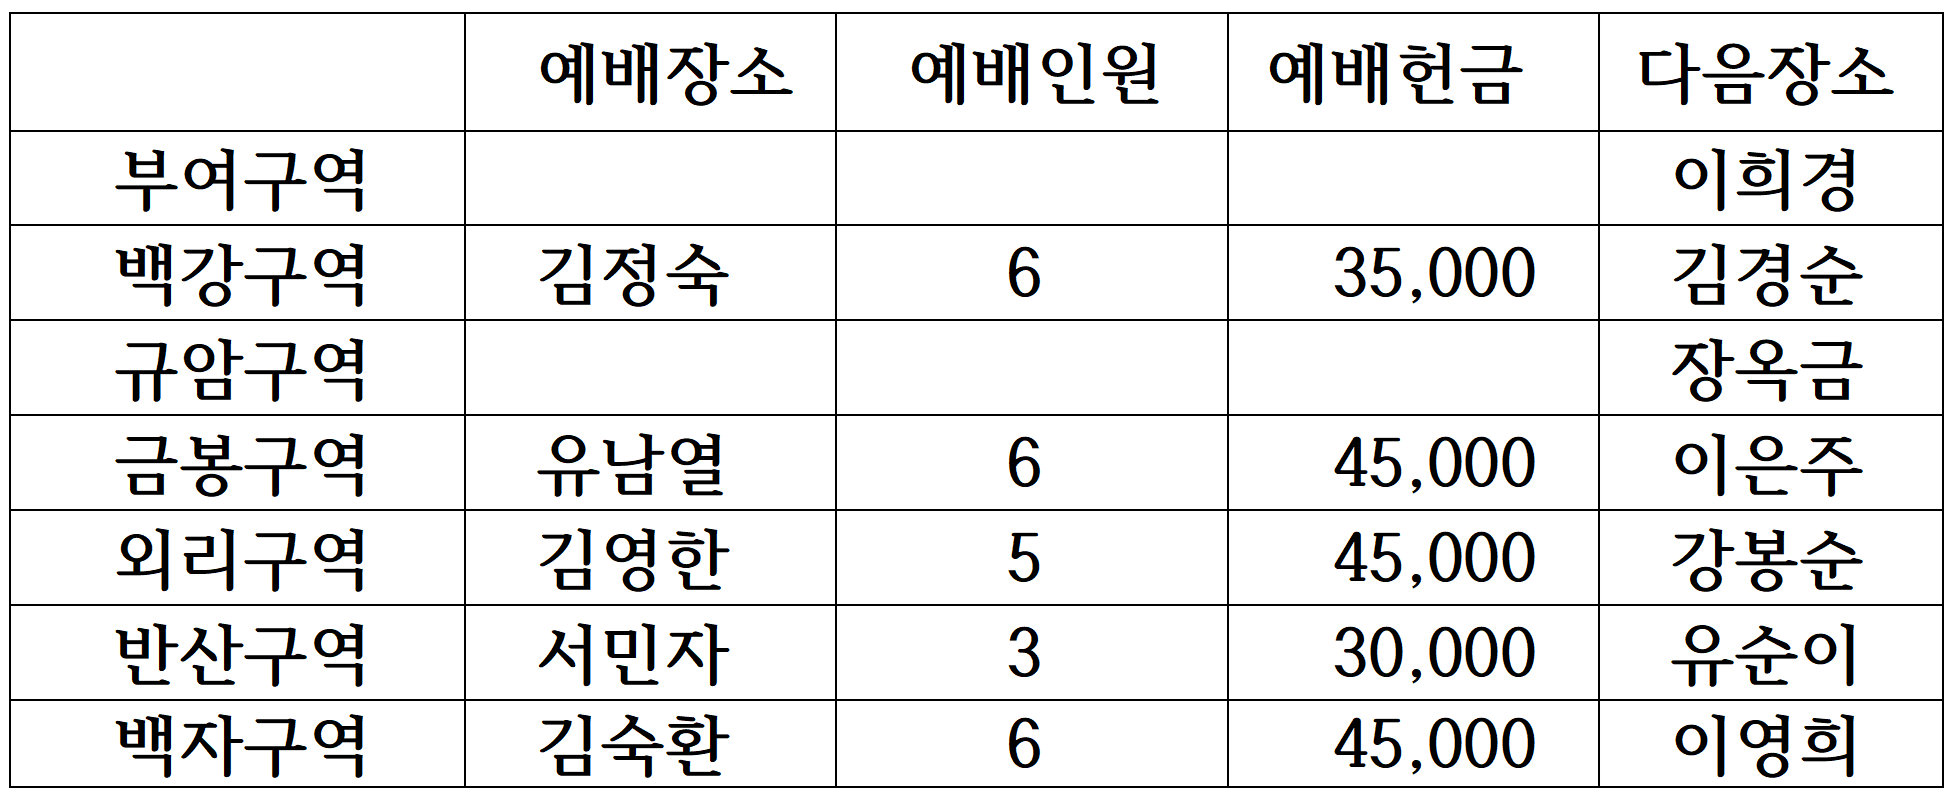
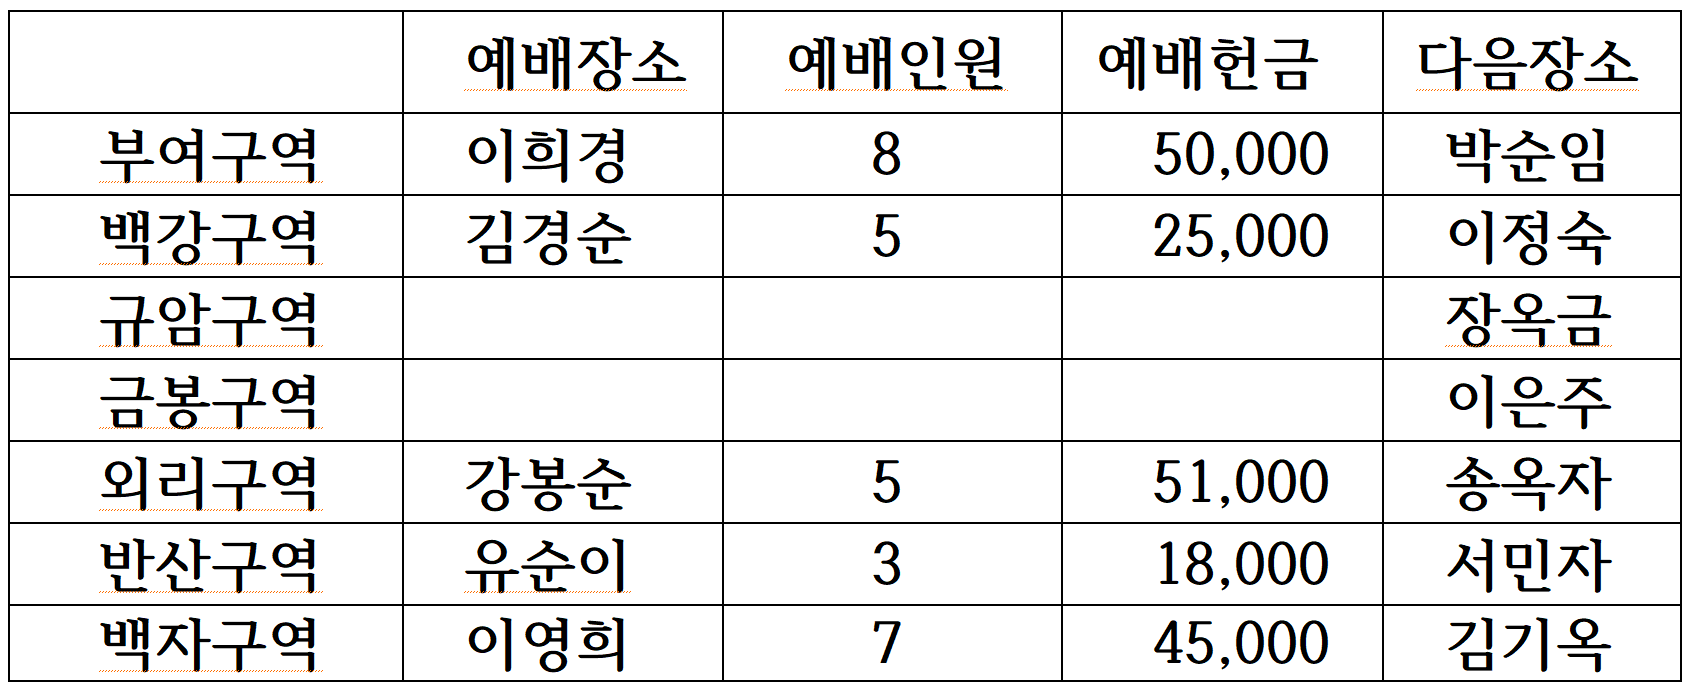
20230722
주일예배

diff --git a/index.html b/index.html
@@ -64,7 +64,7 @@
       <h1 class="home__title">
         열린문교회<br>
       </h1>
-      <h2 class="home__description">제 4권 29호 2023년 7월 16일</h2>
+      <h2 class="home__description">제 4권 30호 2023년 7월 23일</h2>
       
       <!-- 아래는 타이틀임, 안쓸 때는 주석처리하기로 -->
       <!-- <h1 class="home__description_event">교회교육주일</h1> -->
@@ -95,8 +95,8 @@
 
       <h2>주일 낮 예배</h2>
       <ul class="ul1">
-          <li>사회: 오세웅 안수집사</li>
-          <li>다음주 사회: 최윤태 안수집사</li>
+          <li>사회: 최윤태 안수집사</li>
+          <li>다음주 사회: 조성돈 장로</li>
       </ul>
 
         <table>
@@ -107,7 +107,7 @@
               </tr>
               <tr>    
                   <th><i class="fas fa-male"></i> 찬송</th>
-                  <td>29장</td>
+                  <td>15장</td>
               </tr>
               <!-- <tr>
                   <th><i class="fas fa-male"></i> 교독문</th>
@@ -117,26 +117,26 @@
                   <td>사도신경</td>
               <tr>
                   <th>찬송</th>
-                  <td>372장</td>
+                  <td>452장</td>
               </tr>
               <tr>
                   <th>대표기도</th>
                   <td>
-                    1부 박순남 집사<br>
-                    2부 최윤태 안수집사
+                    1부 정민재 집사<br>
+                    2부 오세웅 안수집사
                   </td>
               </tr>
               <tr>
                   <th>성경봉독</th>
                   <td> 
-                    시편 51 : 1--3 10--12   
+                    삼상 22 : 1, 2 (구약446)  
                   </td>
               </tr>
               <tr>
                   <th>특송</th>
                   <td>
-                    1부 어린 양들아 두려워말라 (비전찬양) <br>
-                    2부 내가 늘 의지하는 예수 (학생청년)
+                    1부 주의 말씀 받은 그날<br>
+                    2부 만세 반석 열린 곳에
                   </td>
               </tr>
               <tr>
@@ -157,7 +157,7 @@
                 <th>설교</th>
                 <td>
                   <strong>
-                    대장부가 되라
+                    대장부가 되라 (3)
                   </strong>
                 </td>
               </tr>
@@ -169,7 +169,7 @@
               <tr>
                 <th>찬송</th>
                 <td>
-                  453장
+                  515장
                 </td>
               </tr>
               <tr>
@@ -198,7 +198,7 @@
               <tr>
                 <th>(다음주 기도)</th>
                 <td>
-                  1부 정민재 집사<br>
+                  1부 박요한 집사<br>
                   2부 고승수 안수집사
                 </td>
               </tr>
@@ -243,15 +243,15 @@
     </tr>
     <tr>
       <th>기도</th>
-      <td>신명순 권사</td>
+      <td>김경옥 권사</td>
     </tr>
     <tr>
       <th>성경</th>
-      <td>창 47 : 1---12</td>
+      <td>창 47 : 13--26</td>
     </tr>
     <tr>
       <th>특송</th>
-      <td>외리구역</td>
+      <td>반산구역</td>
     </tr>
     <!-- <tr>
       <th>설교</th>
@@ -263,7 +263,7 @@
     </tr>
     <tr>
       <th>찬송</th>
-      <td>292장, 좋으신 하나님</td>
+      <td>386 장, 좋으신 하나님</td>
     </tr>
     <tr>
       <th>광고</th>
@@ -279,7 +279,7 @@
     </tr>
     <tr>
       <th>(다음주 특송)</th>
-      <td>반산구역</td>
+      <td>백자구역</td>
     </tr>
   </tbody>
 </table>
@@ -310,7 +310,7 @@
       </tr>
       <tr>
         <th>찬송</th>
-        <td>546장</td>
+        <td>446장</td>
       </tr>
       <tr>
         <th>합심기도</th>
@@ -403,13 +403,11 @@
         </div>
         <h1 class="major__title">암송말씀</h1>
         <div class="major__description">
-          <p>이와 같이 성령도 우리의 연약함을 도우시나니</p>
-          <p>우리는
-            마땅히 기도할 바를 알지 못하나</p>
-            <p>오직 성령이 말할 수 없는
-              탄식으로</p>
-            <p>우리를 위하여 친히 간구하시느니라.</p>
-            <p>(로마서8:26)</p>
+          <p>그러므로 무엇이든지</p>
+          <p>남에게 대접을 받고자 하는 대로</p>
+          <p>너희도 남을 대접하라</p>
+          <p>이것이 율법이요 선지자니라</p>
+          <p>(마태복음 7:12)</p>
         </div>
       </div>
     </section>
@@ -442,7 +440,7 @@
               </p><br>
 
               <p><a href="">2.</a>
-                장마로 피해를 입으신 지역의 모든 분들을 주님의 이름으로 위로합니다.
+                장마와 폭염 중에 성도들의 마음과 몸이 쾌적하시기를 기도합니다.
               </p><br>
 
               <p><a href="">3.</a>
@@ -450,25 +448,25 @@
               </p><br>
 
               <p><a href="">4.</a>
-                2부 예배 후 1 여전도회 월례회가 목양실에서 있습니다.
+                여름 교육학교 행사를 위해 기도와 협력를 바랍니다 <br>
+                 * 학생, 청년부 수련회—구별된 삶, 7월 28,29일, 서천유스호스텔 <br>
+                 * 유치, 아동부 성경학교—8월 11,12일, 중앙교회 연합
               </p><br>
 
               <p><a href="">5.</a>
-                1 남전도회가 월례회가 20일(목, 오후6시)에 교회에서 있습니다
-              </p><br>
-
-              <p><a href="">6.</a>
-                여름 교육학교 행사를 위해 기도와 협력를 바랍니다 <br>
-                  * 학생, 청년부 수련회—구별된 삶, 7월 28,29일, 서천유스호스텔 <br>
-                  * 유치, 아동부 성경학교—8월 11,12일, 중양교회 연합
-              </p><br>
-
-              <p><a href="">7.</a>
                 교회창립 3주년 행사가 기도로 잘 준비되기 바랍니다.(9월 24일)
               </p><br>
 
+              <p><a href="">6.</a>
+                이번 주간부터 8월 셋째 구간까지 구역예배를 쉬도록 하겠습니다
+              </p><br>
+
+              <p><a href="">7.</a>
+                신학대학원 목회자 모임이 24일(월) 본 교회에서 있습니다.
+              </p><br>
+
               <p><a href="">8.</a>
-                입원 (고승수 안수집사—대전건양대)
+                입원 (고승수 안수집사, 박귀원 집사—대전건양대)
               </p><br>
 
               <!-- 다음달 예배위원 안내 -> 지우지 말고 주석 처리해서 활용하자 -->
